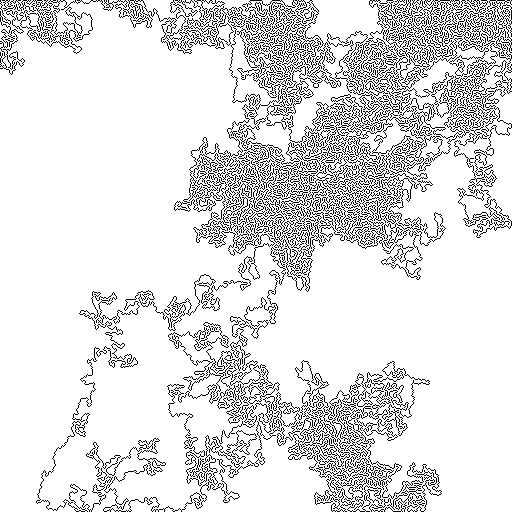
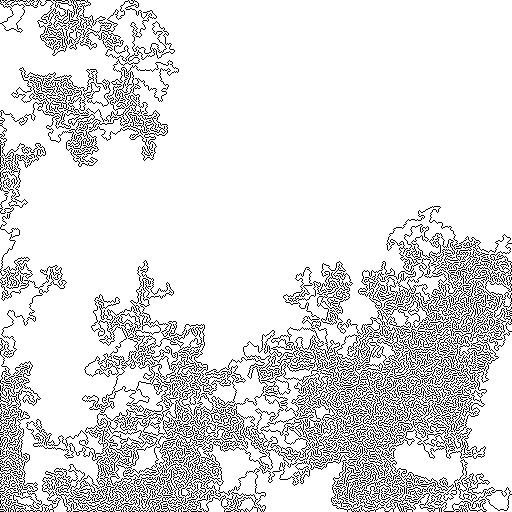
flood fill

Changed region(s): [[0.0, 0.0, 1.0, 1.0], [0.0, 0.2188, 0.125, 0.5938], [0.0312, 0.5938, 0.0625, 0.625]]

diff --git a/src/Main.java b/src/Main.java
@@ -25,85 +25,93 @@ public class Main {
     }
 
     public static void main(String[] args) throws IOException {
-        System.out.println("Running PathMaker...");
-        long start = Instant.now().toEpochMilli();
-
-        int[][] board = new int[512][512];
-        for (int y = 0; y < board.length; ++y) {
-            for (int x = 0; x < board[0].length; ++x) {
-                board[y][x] = 0;
-            }
+        System.out.print("Flood fill or squiggles (f or s): ");
+        Scanner scanner = new Scanner(System.in);
+        String input = scanner.nextLine();
+        if (input.equalsIgnoreCase("f")) {
+            FloodFill ff = new FloodFill();
         }
+        else if (input.equalsIgnoreCase("s")) {
+            System.out.println("Running Squiggles...");
+            long start = Instant.now().toEpochMilli();
 
-        int curx = 0;
-        int cury = 0;
-        board[cury][curx] = 1;
-
-
-        for (int i = 0; i < 6942069; ++i) {
-            // if cant move anywhere, break
-            boolean hasMove = false;
-            for (int j = 0; j < neighbourMap.size(); ++j) {
-                int poty = cury + neighbourMap.get(j).getKey();
-                int potx = curx + neighbourMap.get(j).getValue();
-
-                if (potx >= 0 && potx < board.length && poty >= 0 && poty < board.length && neighboursFilled(potx, poty, board) < 2 && board[poty][potx] != 1) {
-                    hasMove = true;
+            int[][] board = new int[512][512];
+            for (int y = 0; y < board.length; ++y) {
+                for (int x = 0; x < board[0].length; ++x) {
+                    board[y][x] = 0;
                 }
             }
 
-            while (!hasMove) {
-                // no, go to a random cell that has been moved to already and continue
-                int neighbour = (int)(Math.random()*8);
-                int poty = cury + neighbourMap.get(neighbour).getKey();
-                int potx = curx + neighbourMap.get(neighbour).getValue();
-                if (potx >= 0 && potx < board.length && poty >= 0 && poty < board.length && board[poty][potx] == 1) {
-                    curx = potx;
-                    cury = poty;
-                    break;
+            int curx = 0;
+            int cury = 0;
+            board[cury][curx] = 1;
+
+
+            for (int i = 0; i < 6942069; ++i) {
+                // if cant move anywhere, break
+                boolean hasMove = false;
+                for (int j = 0; j < neighbourMap.size(); ++j) {
+                    int poty = cury + neighbourMap.get(j).getKey();
+                    int potx = curx + neighbourMap.get(j).getValue();
+
+                    if (potx >= 0 && potx < board.length && poty >= 0 && poty < board.length && neighboursFilled(potx, poty, board) < 2 && board[poty][potx] != 1) {
+                        hasMove = true;
+                    }
+                }
+
+                while (!hasMove) {
+                    // no, go to a random cell that has been moved to already and continue
+                    int neighbour = (int)(Math.random()*8);
+                    int poty = cury + neighbourMap.get(neighbour).getKey();
+                    int potx = curx + neighbourMap.get(neighbour).getValue();
+                    if (potx >= 0 && potx < board.length && poty >= 0 && poty < board.length && board[poty][potx] == 1) {
+                        curx = potx;
+                        cury = poty;
+                        break;
+                    }
+                }
+
+                while (hasMove) {
+                    int neighbour = (int)(Math.random()*8); // num between 0 and 7
+
+                    int poty = cury + neighbourMap.get(neighbour).getKey();
+                    int potx = curx + neighbourMap.get(neighbour).getValue();
+
+                    if (potx >= 0 && potx < board.length && poty >= 0 && poty < board.length && neighboursFilled(potx, poty, board) < 2 && board[poty][potx] != 1) {
+                        curx = potx;
+                        cury = poty;
+                        board[cury][curx] = 1;
+                        break;
+                    }
                 }
             }
 
-            while (hasMove) {
-                int neighbour = (int)(Math.random()*8); // num between 0 and 7
+            BufferedImage img = new BufferedImage(512, 512, 5);
 
-                int poty = cury + neighbourMap.get(neighbour).getKey();
-                int potx = curx + neighbourMap.get(neighbour).getValue();
-
-               if (potx >= 0 && potx < board.length && poty >= 0 && poty < board.length && neighboursFilled(potx, poty, board) < 2 && board[poty][potx] != 1) {
-                    curx = potx;
-                    cury = poty;
-                    board[cury][curx] = 1;
-                    break;
+            for (int y = 0; y < img.getHeight(); ++y) {
+                for (int x = 0; x < img.getWidth(); ++x) {
+                    if (board[y][x] == 1) {
+                        int rgb = 0;
+                        rgb = (rgb << 8) + 0;
+                        rgb = (rgb << 8) + 0;
+                        img.setRGB(x, y, rgb);
+                    }
+                    else {
+                        int rgb = 255;
+                        rgb = (rgb << 8) + 255;
+                        rgb = (rgb << 8) + 255;
+                        img.setRGB(x, y, rgb);
+                    }
                 }
             }
+
+            File file = new File("squiggles.jpg");
+            ImageIO.write(img, "jpg", file);
+            System.out.println("Created squiggles.jpg");
+
+            long end = Instant.now().toEpochMilli();
+            System.out.println("Finished Tracer in " + formatSeconds(start, end));
         }
-
-        BufferedImage img = new BufferedImage(512, 512, 5);
-
-        for (int y = 0; y < img.getHeight(); ++y) {
-            for (int x = 0; x < img.getWidth(); ++x) {
-                if (board[y][x] == 1) {
-                    int rgb = 0;
-                    rgb = (rgb << 8) + 0;
-                    rgb = (rgb << 8) + 0;
-                    img.setRGB(x, y, rgb);
-                }
-                else {
-                    int rgb = 255;
-                    rgb = (rgb << 8) + 255;
-                    rgb = (rgb << 8) + 255;
-                    img.setRGB(x, y, rgb);
-                }
-            }
-        }
-
-        File file = new File("squiggles.jpg");
-        ImageIO.write(img, "jpg", file);
-
-
-        long end = Instant.now().toEpochMilli();
-        System.out.println("Finished Tracer in " + formatSeconds(start, end));
     }
 
     public static boolean moveNotPossible(int x, int y, int[][] board) {

diff --git a/src/FloodFill.java b/src/FloodFill.java
@@ -1,0 +1,156 @@
+import javax.imageio.ImageIO;
+import java.awt.image.BufferedImage;
+import java.io.File;
+import java.io.IOException;
+import java.time.Instant;
+
+public class FloodFill {
+    private final int len = 256;
+    private final int outlineLen = 128;
+    private final int IMG_TYPE = 5;
+    private int[][] board;
+    private int curx;
+    private int cury;
+    private int fills;
+
+    public FloodFill() throws IOException {
+        fills = 0;
+        board = new int[len][len];
+        System.out.println("Running FloodFill...");
+        long start = Instant.now().toEpochMilli();
+
+        cury = len/4;
+        curx = len/2;
+
+        // down and left
+        updateBoard(1, -1);
+
+        // down and right
+        updateBoard(1, 1);
+
+        // up and right
+        updateBoard(-1, 1);
+
+        // up and left
+        cury--;
+        while ((curx >= len/2 && cury >= len/4) && (board[cury][curx] != 1)) {
+            board[cury][curx] = 1;
+            double dir = Math.random()*2;
+
+            if (dir < 1) {
+                // go down
+                cury--;
+            }
+            else {
+                // go left;
+                curx--;
+            }
+
+        }
+
+        if (cury + 1 == len/4 || cury == len/4) {
+            if (cury + 1 == len/4) {
+                cury++;
+            }
+
+            for (int x = curx; x >= len/2; --x) {
+                board[cury][x] = 1;
+            }
+        }
+
+        if (curx + 1 == len/2 || curx == len/2) {
+            if (curx + 1 == len/2) {
+                curx++;
+            }
+
+            if (cury <= len/4) {
+                for (int y = cury; y <= len/4; ++y) {
+                    board[y][curx] = 1;
+                }
+            }
+            else {
+                for (int y = cury; y >= len/4; --y) {
+                    board[y][curx] = 1;
+                }
+            }
+        }
+
+        genImage("outline");
+
+        try {
+            fill(len/4 + outlineLen/2, len/2);
+        }
+        catch (StackOverflowError e) {
+            System.out.println("Caught stack overflow error after " + fills + " calls");
+            genImage("floodfill");
+        }
+
+        genImage("floodfill");
+    }
+
+    private void fill(int y, int x) throws StackOverflowError {
+        fills++;
+        board[y][x] = 2;
+
+        if (board[y - 1][x] == 0) {
+            fill(y - 1, x);
+        }
+        if (board[y + 1][x] == 0) {
+            fill(y + 1, x);
+        }
+        if (board[y][x - 1] == 0) {
+            fill(y, x - 1);
+        }
+        if (board[y][x + 1] == 0) {
+            fill(y, x + 1);
+        }
+    }
+
+    private void genImage(String name) throws IOException {
+        BufferedImage img = new BufferedImage(len, len, IMG_TYPE);
+
+        // set pixels
+        for (int y = 0; y < img.getHeight(); ++y) {
+            for (int x = 0; x < img.getWidth(); ++x) {
+                if (board[y][x] == 1) {
+                    int rgb = 0;
+                    rgb = (rgb << 8) + 0;
+                    rgb = (rgb << 8) + 0;
+                    img.setRGB(x, y, rgb);
+                }
+                else if (board[y][x] == 2) {
+                    int rgb = 64;
+                    rgb = (rgb << 8) + 128;
+                    rgb = (rgb << 8) + 255;
+                    img.setRGB(x, y, rgb);
+                }
+                else {
+                    int rgb = 255;
+                    rgb = (rgb << 8) + 255;
+                    rgb = (rgb << 8) + 255;
+                    img.setRGB(x, y, rgb);
+                }
+            }
+        }
+
+        File file = new File(name + ".jpg");
+        ImageIO.write(img, "jpg", file);
+        System.out.println("Created " + name + ".jpg");
+    }
+
+    private void updateBoard(int dy, int dx) {
+        for (int i = 0; i < outlineLen; ++i) {
+            double dir = Math.random()*2;
+
+            if (dir < 1) {
+                cury += dy;
+            }
+            else {
+                curx += dx;
+            }
+
+            board[cury][curx] = 1;
+        }
+    }
+
+}

diff --git a/README.md b/README.md
@@ -2,3 +2,8 @@
 Generative squiggles
 
 ![squiggles](squiggles.jpg)
+
+
+| Outline | Flood filled|
+| --- | --- |
+| ![outline](outline.jpg) | ![floodfilled](floodfill.jpg) |
